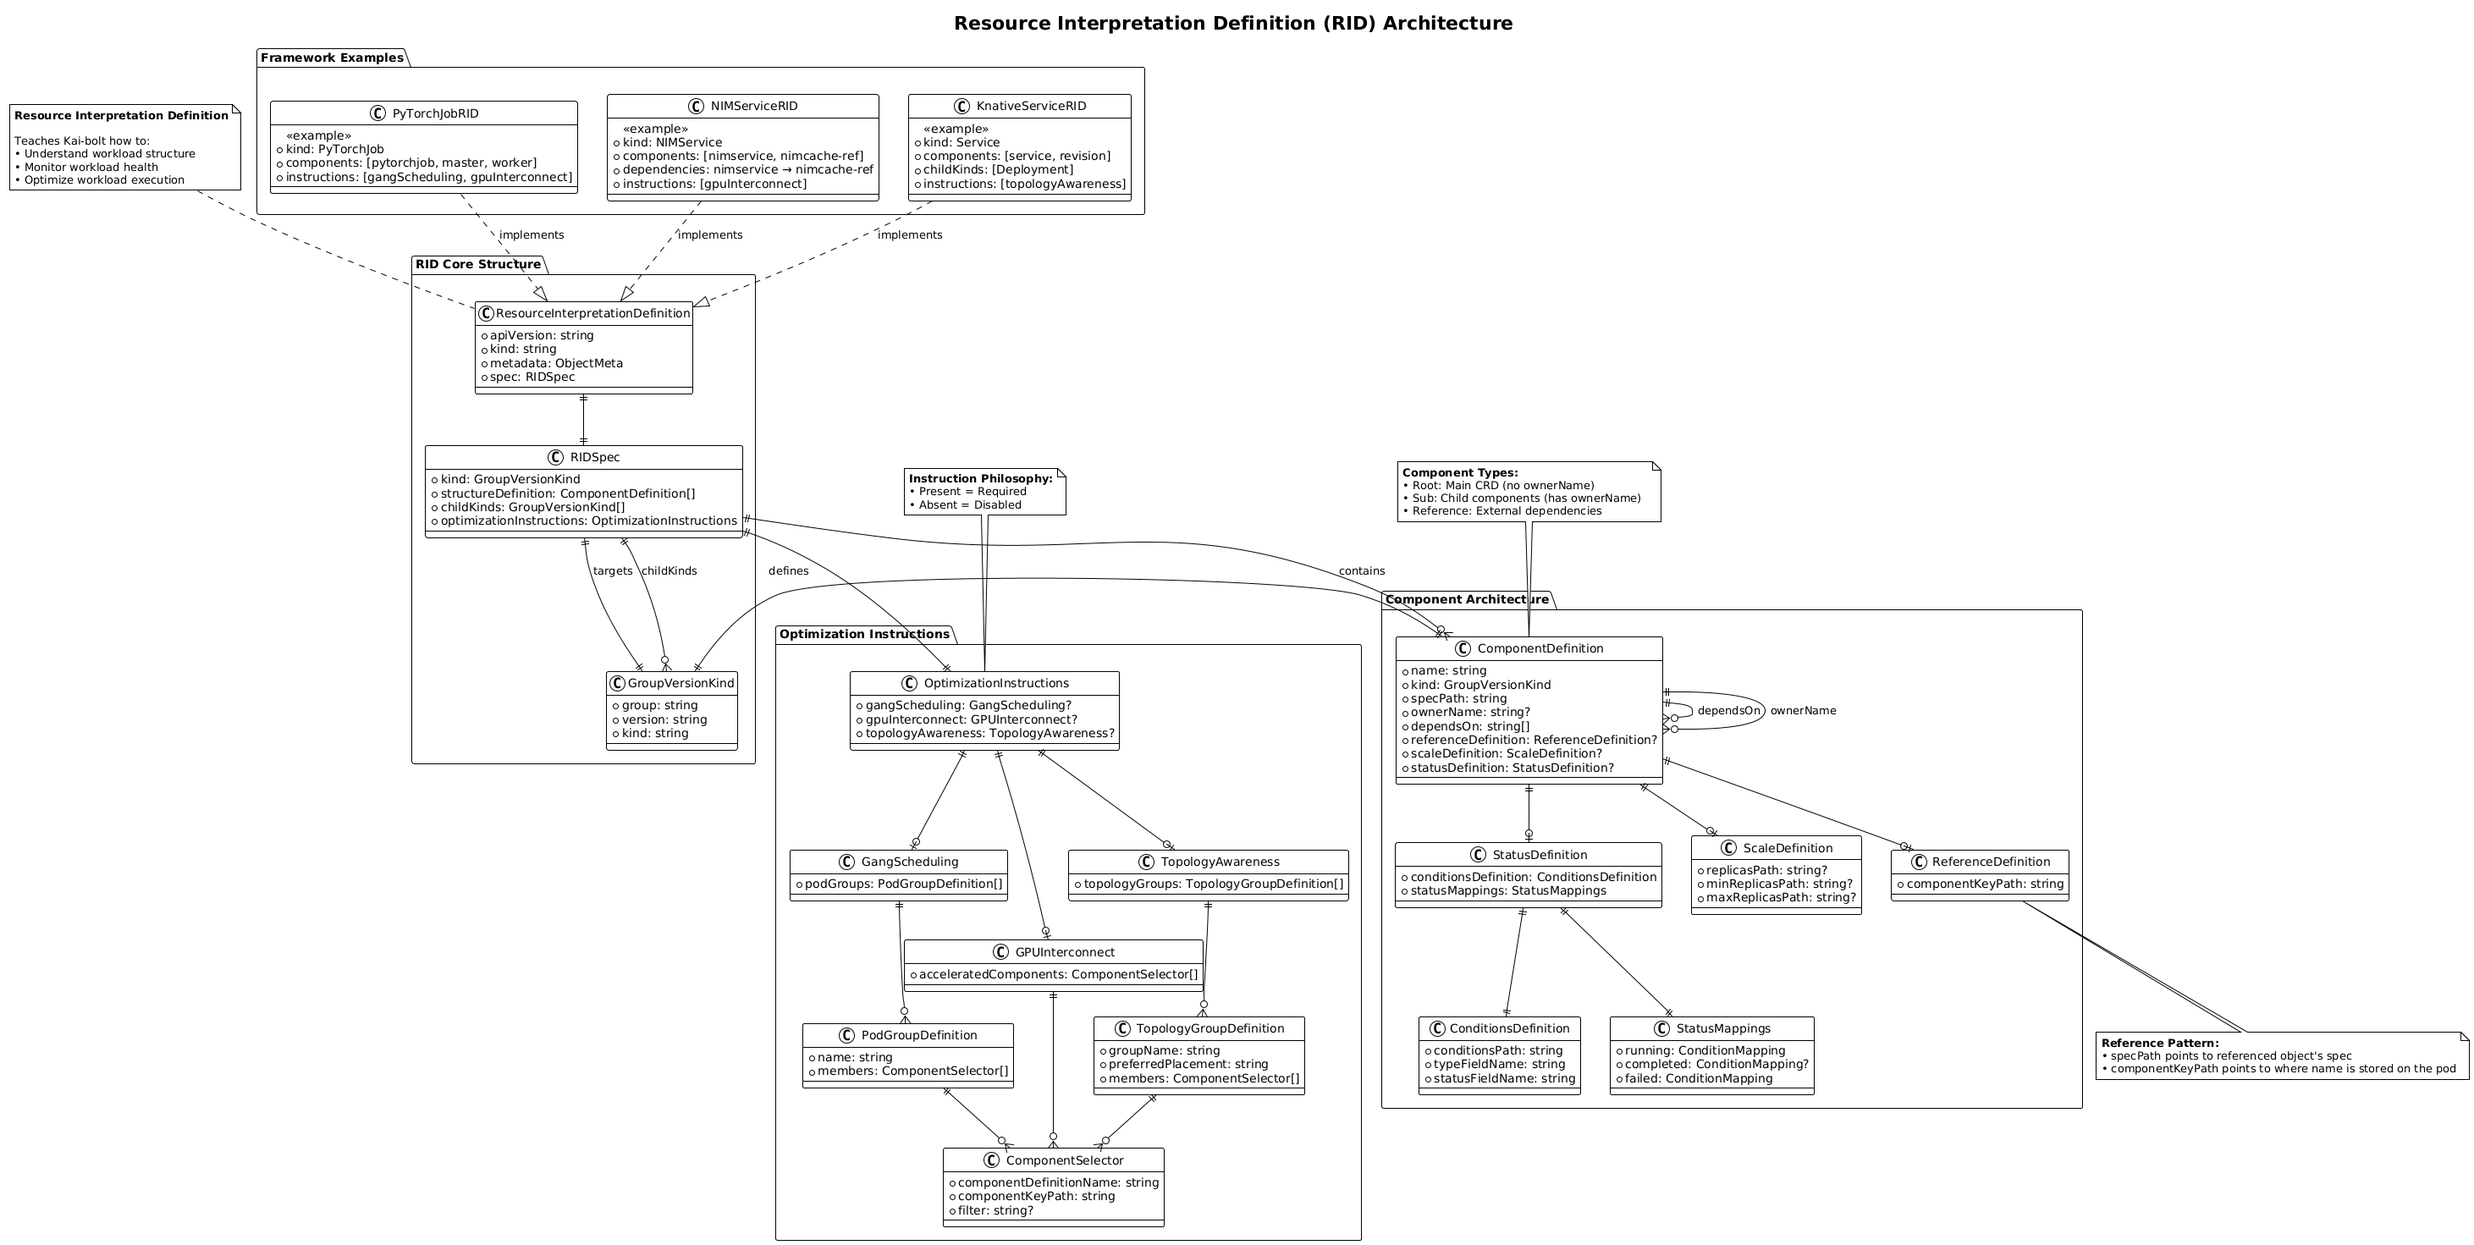
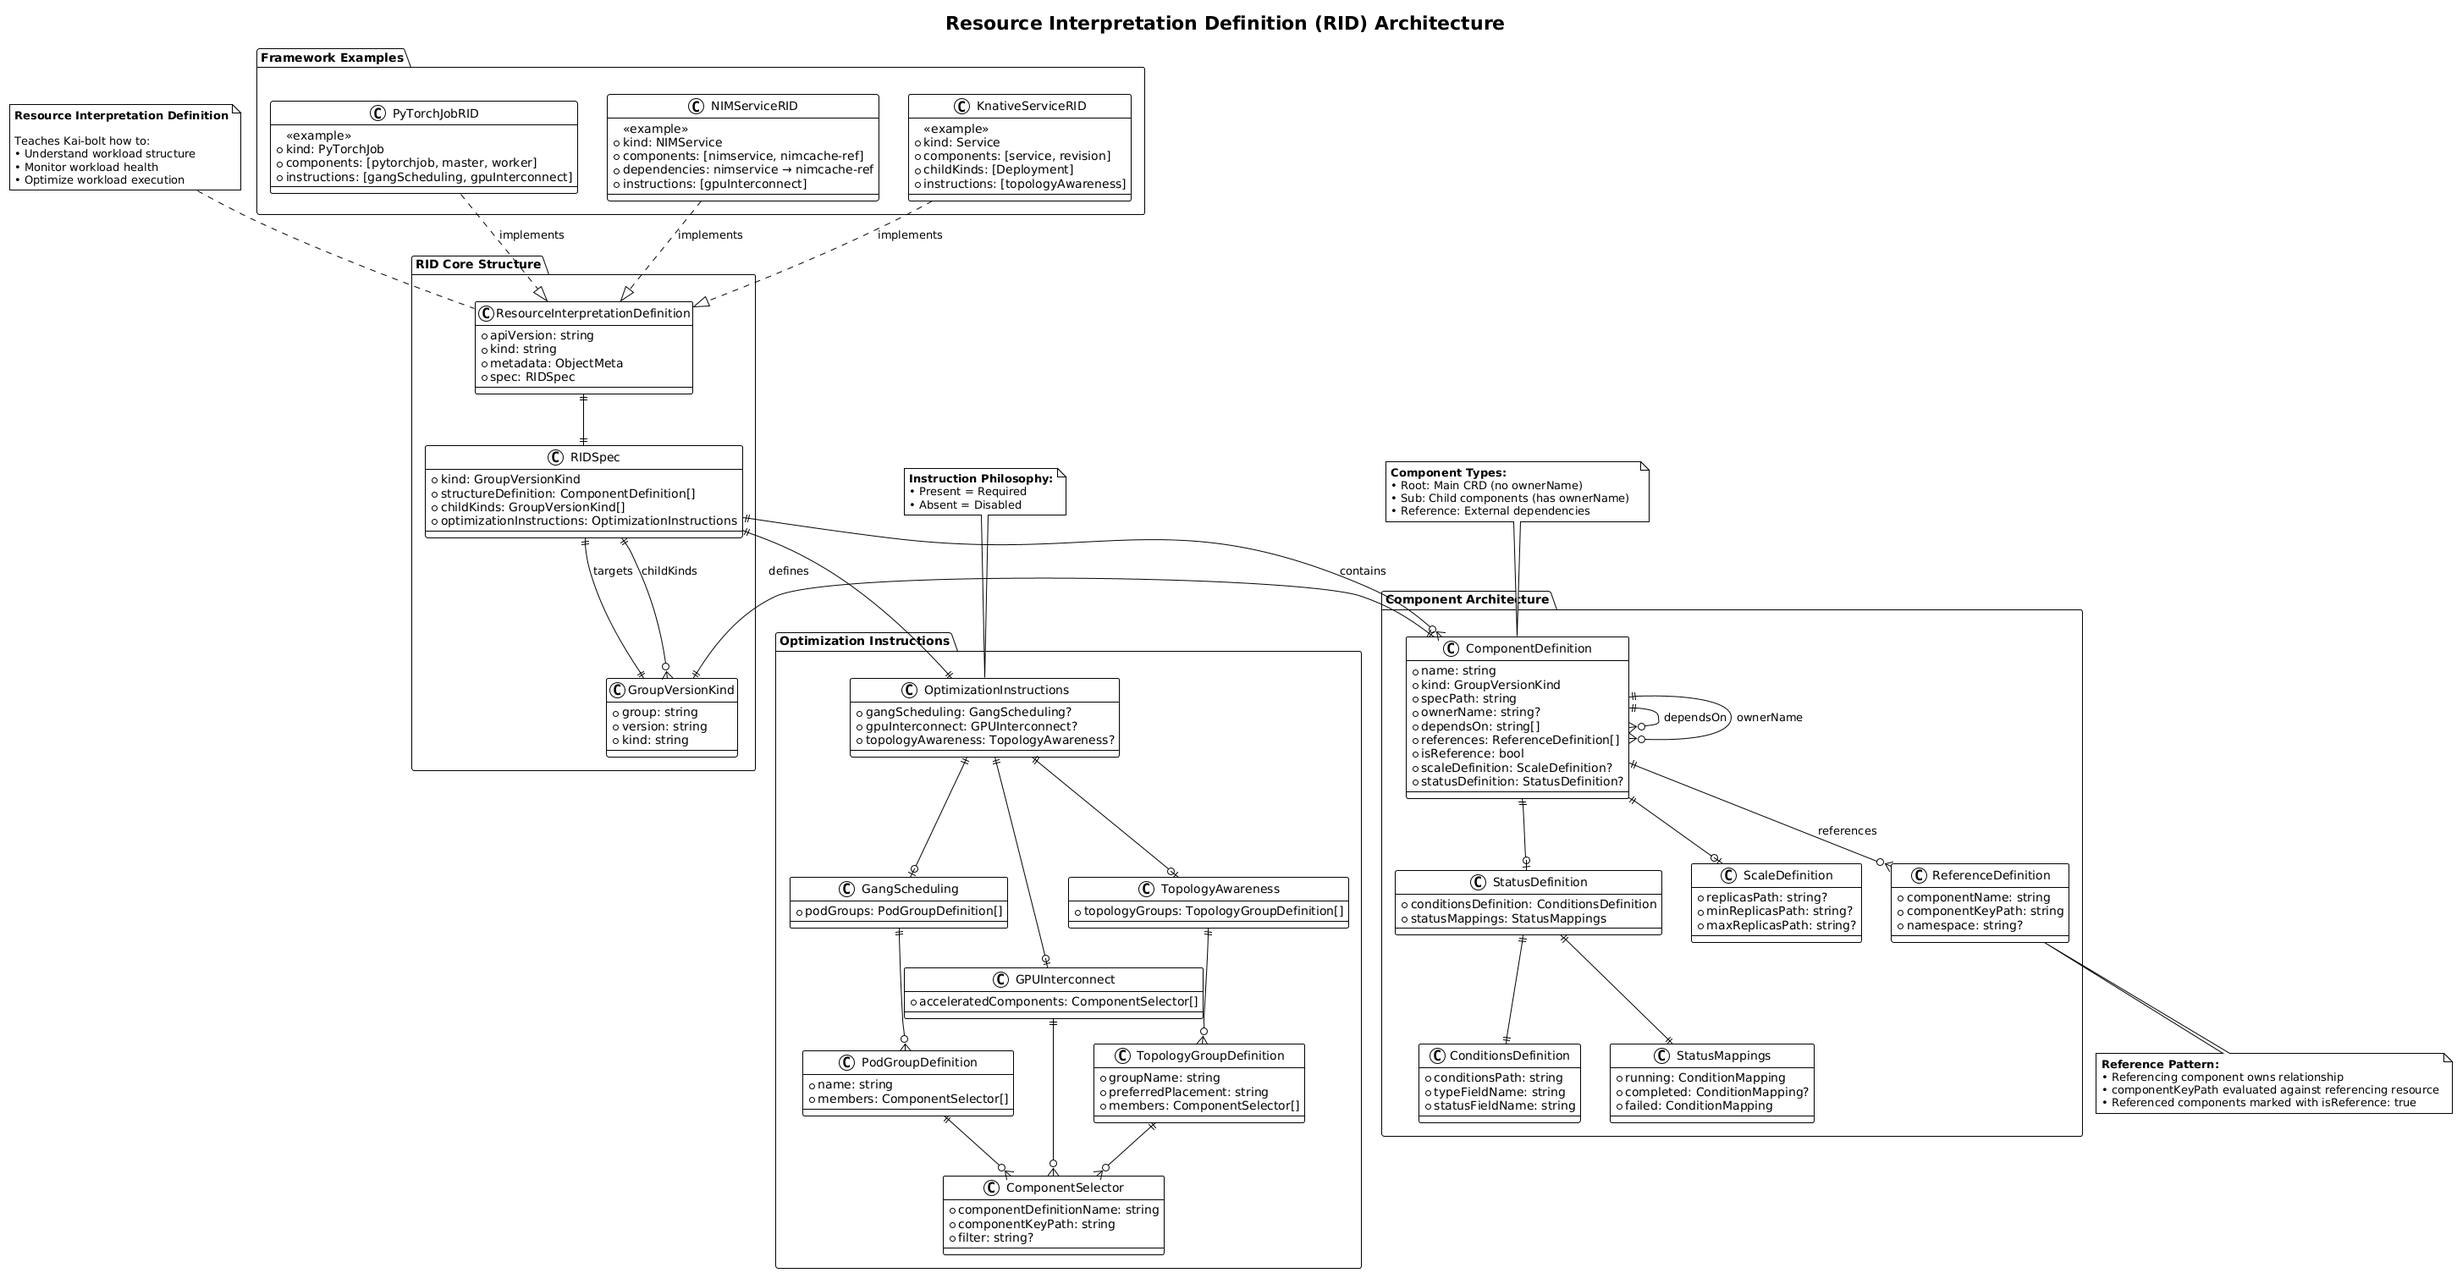
mini design comments

diff --git a/pkg/api/v1alpha1/structure/component.go b/pkg/api/v1alpha1/structure/component.go
@@ -3,17 +3,19 @@ package structure
 import "k8s.io/apimachinery/pkg/runtime/schema"
 
 type ComponentDefinition struct {
-	Name                string                   `json:"name"`
-	Kind                *schema.GroupVersionKind `json:"kind,omitempty"`
-	OwnerName           *string                  `json:"ownerName,omitempty"`           // name of the owning component. nil if root?
-	SpecPath            string                   `json:"specPath"`                      // JQ path to the component spec (e.g., '.spec.services[]' or '.spec.template')
-	ReferenceDefinition *ReferenceDefinition     `json:"referenceDefinition,omitempty"` // nil = inline component, non-nil = referenced component
-	ScaleDefinition     *ScaleDefinition         `json:"scaleDefinition,omitempty"`     // path to the scale/size struct
-	StatusDefinition    *StatusDefinition        `json:"statusDefinition,omitempty"`
-	DependsOn           []string                 `json:"dependsOn,omitempty"` // component names that must be ready before this component starts
+	Name             string                   `json:"name"`
+	Kind             *schema.GroupVersionKind `json:"kind,omitempty"`
+	OwnerName        *string                  `json:"ownerName,omitempty"`       // name of the owning component. nil if root?
+	SpecPath         string                   `json:"specPath"`                  // JQ path to the component spec (e.g., '.spec.services[]' or '.spec.template')
+	References       []ReferenceDefinition    `json:"references,omitempty"`      // list of components this component references
+	IsReference      bool                     `json:"isReference,omitempty"`     // true = this component is an external reference
+	ScaleDefinition  *ScaleDefinition         `json:"scaleDefinition,omitempty"` // path to the scale/size struct
+	StatusDefinition *StatusDefinition        `json:"statusDefinition,omitempty"`
+	DependsOn        []string                 `json:"dependsOn,omitempty"` // component names that must be ready before this component starts
 }
 
 type ReferenceDefinition struct {
+	ComponentName    string  `json:"componentName"`       // Name of the referenced component
 	ComponentKeyPath string  `json:"componentKeyPath"`    // JQ path to where main resource stores this component's identifier
 	Namespace        *string `json:"namespace,omitempty"` // optional - if the referenced component is in another namespace
 }

diff --git a/docs/design/README.md b/docs/design/README.md
@@ -46,38 +46,46 @@ The script will:
 6. **[`common-mistakes.md`](common-mistakes.md)** - Mistakes to avoid based on real experience
 7. **[`iteration-process.md`](iteration-process.md)** - Systematic approach to RID development
 
-## 🎯 Usage Scenarios
+## Usage Scenarios
 
 ### **Starting Fresh on Kai-bolt**
 **Read**: `kai-bolt-overview.md` → `rid-principles.md` → `framework-patterns.md`  
-**Goal**: Understand the system, fundamental rules, and established patterns
+**Purpose**: Understand core concepts and design patterns
 
-### **Creating a New RID**
-**Read**: `iteration-process.md` → `validation-checklist.md` → `common-mistakes.md`  
-**Goal**: Follow systematic development process while avoiding known pitfalls
+### **Adding a New Framework**
+**Read**: `framework-patterns.md` → `validation-checklist.md` → `common-mistakes.md`  
+**Purpose**: Model framework correctly and avoid common issues
 
-### **Reviewing an Existing RID**
-**Use**: `validation-checklist.md` + `rid-principles.md`  
-**Goal**: Ensure quality and architectural compliance
+### **Troubleshooting RID Issues**
+**Read**: `common-mistakes.md` → `architectural-decisions.md` → `validation-checklist.md`  
+**Purpose**: Debug problems and understand architectural constraints
 
-### **Understanding Past Decisions**
-**Read**: `architectural-decisions.md` + `common-mistakes.md`  
-**Goal**: Understand why things are designed the way they are
+### **Understanding Design Decisions**
+**Read**: `architectural-decisions.md` → `rid-principles.md`  
+**Purpose**: Learn why specific patterns were chosen
 
-### **Debugging RID Issues**
-**Use**: `common-mistakes.md` → `validation-checklist.md`  
-**Goal**: Identify and fix typical problems
+### **Framework Research and Analysis**
+**Read**: `framework-patterns.md` → Examples in `docs/examples/`  
+**Purpose**: Understand how different frameworks are modeled
 
-## 🚨 Critical Knowledge ("Pins")
+## Critical Knowledge ("Pins")
 
-These are the most important rules that must never be forgotten:
+These are the **most important rules** that cannot be broken:
 
-1. **RIDs match Kubernetes resource boundaries** - One RID per CRD type
-2. **Dependencies require status definitions** - `dependsOn` needs status monitoring
-3. **Kind fields are full GVK objects** - Never use strings
-4. **componentKeyPath points to instance names** - Not component types
-5. **Status definitions must be research-based** - Never assume condition types
-6. **Instructions target individual components** - Avoid complex parent filters
+### **1. JQ Path Architecture**
+- **Component Definition Paths**: Always absolute from main RID resource root (`.spec.pytorchReplicaSpecs.Worker.replicas`)
+- **Instruction Filter Paths**: Always relative to component's resource type (`.spec.containers[0].resources`)
+
+### **2. Reference Architecture**  
+- **Referencing component**: Owns the relationship via `references` list
+- **Referenced component**: Marked with `isReference: true`
+- **Path evaluation**: All paths within a component evaluate against same resource
+
+### **3. Status Definitions Must Be Research-Based**
+All condition types must match actual framework APIs - never use generic assumptions.
+
+### **4. Component Kinds Must Match Reality**
+Every component `kind` must match the actual Kubernetes resource created by the framework.
 
 ## 📁 Related Directories
 
@@ -106,7 +114,7 @@ common-mistakes.md (prevention)
 architectural-decisions.md (rationale)
 ```
 
-## 📚 Framework Coverage
+## Framework Coverage
 
 The design documents cover patterns for:
 
@@ -130,7 +138,7 @@ The design documents cover patterns for:
 - NVIDIA NIM (NIMCache + NIMService)
 - Separate optimization domains, Explicit dependencies
 
-## 🛠 Quick Reference
+## Quick Reference
 
 ### **Design Validation Commands**
 ```bash
@@ -185,7 +193,7 @@ spec:
 - Contribute to architectural decisions
 - Mentor new contributors
 
-## 🔧 Maintenance
+## Maintenance
 
 ### **Keeping Documents Current**
 - Update when new framework patterns emerge

diff --git a/docs/design/rid-principles.md b/docs/design/rid-principles.md
@@ -1,28 +1,8 @@
 # RID Design Principles
 
-## 🚨 Non-Negotiable Architectural Rules
+## Non-Negotiable Architectural Rules
 
-### 1. **Match Kubernetes Resource Boundaries**
-RIDs must reflect actual Kubernetes CRD structures, not idealized abstractions.
-
-**✅ Correct**: Separate RIDs for separate CRDs
-```yaml
-# nimcache.yaml - for NIMCache CRD
-kind:
-  group: apps.nvidia.com
-  version: v1alpha1  
-  kind: NIMCache
-
-# nimservice.yaml - for NIMService CRD  
-kind:
-  group: apps.nvidia.com
-  version: v1alpha1
-  kind: NIMService
-```
-
-**❌ Wrong**: Single RID trying to model multiple unrelated CRDs
-
-### 2. **Dependencies Require Status Definitions**
+### 1. **Dependencies Require Status Definitions**
 Any component referenced in `dependsOn` MUST have a `statusDefinition`.
 
 **✅ Correct**: 
@@ -42,7 +22,7 @@ Any component referenced in `dependsOn` MUST have a `statusDefinition`.
 
 **❌ Wrong**: `dependsOn` without status monitoring has no way to check readiness
 
-### 3. **kind Fields Must Be Full GVK Objects**
+### 2. **kind Fields Must Be Full GVK Objects**
 Never use strings for `kind` fields - always use complete GroupVersionKind structure.
 
 **✅ Correct**:
@@ -58,7 +38,7 @@ kind:
 kind: "PyTorchJob"  # String - missing group/version
 ```
 
-### 4. **componentKeyPath Points to Owning Resource Names**
+### 3. **componentKeyPath Points to Owning Resource Names**
 Must point to the actual resource instance name, not component types.
 
 **✅ Correct**:
@@ -73,7 +53,7 @@ componentKeyPath: '.metadata.labels["training.kubeflow.org/replica-type"]'
 # Returns: "Master" - this is a type, not an instance identifier
 ```
 
-### 5. **Research-Based Status Definitions**
+### 4. **Research-Based Status Definitions**
 Status conditions must match actual framework APIs, not assumptions.
 
 **✅ Correct**: Based on actual PyTorchJob API
@@ -98,7 +78,7 @@ statusMappings:
       status: "True"
 ```
 
-## 🎯 Component Design Rules
+## Component Design Rules
 
 ### 1. **Owner Hierarchies Are Explicit**
 Use `ownerName` to establish clear parent-child relationships.
@@ -136,7 +116,7 @@ Include components only if they provide additional optimization granularity.
 - ❌ ConfigMaps (configuration, not workload optimization)
 - ❌ 1:1 mappings that don't add optimization value
 
-## 🔧 Instruction Design Rules
+## Instruction Design Rules
 
 ### 1. **Target Individual Components with Simple Filters**
 Avoid complex OR logic on parent components.
@@ -192,7 +172,7 @@ Choose topology levels based on workload characteristics.
 - **Batch Processing**: `zone` (resource efficiency)
 - **Caching/Storage**: `zone` (storage locality)
 
-## 🛡 JQ Expression Safety
+## JQ Expression Safety
 
 ### 1. **Null Safety with Default Values**
 Always provide defaults for optional fields.
@@ -220,7 +200,7 @@ Use `tonumber` when comparing string values.
 filter: '(.spec.limits["nvidia.com/gpu"] // "0" | tonumber) > 1'
 ```
 
-## 📋 Validation Requirements
+## Validation Requirements
 
 Every RID must pass these checks:
 
@@ -231,7 +211,7 @@ Every RID must pass these checks:
 5. **All status conditions match actual framework APIs**
 6. **All JQ expressions are null-safe with proper defaults**
 
-## 🎪 Complex Framework Patterns
+## Complex Framework Patterns
 
 ### Multi-CRD Frameworks (like NIM)
 When frameworks use multiple independent CRDs with different optimization domains:

diff --git a/docs/examples/README.md b/docs/examples/README.md
@@ -142,17 +142,26 @@ optimizationInstructions:
 For workloads that depend on external components (like NIMService → NIMCache):
 
 ```yaml
+# Referencing component owns the relationship
+- name: "nimservice"
+  specPath: ".spec"                                    # NIMService resource context
+  references:
+    - componentName: "nimcache-ref"
+      componentKeyPath: ".spec.storage.nimCache.name"  # Absolute from NIMService (main RID)
+  dependsOn: ["nimcache-ref"]
+
+# Referenced component marked as external  
 - name: "nimcache-ref"
   specPath: ".spec"                                    # NIMCache resource context
-  referenceDefinition:
-    componentKeyPath: ".spec.storage.nimCache.name"   # Absolute from NIMService (main RID)
+  isReference: true
   statusDefinition:
     conditionsPath: ".status.conditions"              # Absolute from NIMCache resource
 ```
 
 **Key Rules:**
-- **`referenceDefinition.componentKeyPath`**: Absolute from **main RID resource**
-- **`specPath`, `statusDefinition` paths**: Absolute from **referenced resource**
+- **Referencing component `references[].componentKeyPath`**: Absolute from **main RID resource**
+- **Referenced component `specPath`, `statusDefinition` paths**: Absolute from **referenced resource**
+- **`isReference: true`**: Marks component as external dependency
 
 ### Why This Architecture?
 
@@ -319,10 +328,10 @@ Guides pod placement based on cluster topology to minimize network latency and o
 
 For workloads that depend on external components (like NIMService → NIMCache):
 
-1. **Main Component**: Defines the primary workload
-2. **Reference Component**: Points to external dependency
+1. **Referencing Component**: Owns the reference relationship via `references` list
+2. **Referenced Component**: Marked as external with `isReference: true`
 3. **Dependency**: Expressed via `dependsOn` field
-4. **Status Integration**: Reference components include status definitions for dependency checking
+4. **Status Integration**: Referenced components include status definitions for dependency checking
 
 Example:
 ```yaml
@@ -330,13 +339,15 @@ structureDefinition:
   components:
   - name: "nimservice"
     specPath: ".spec"
+    references:
+      - componentName: "nimcache-ref"
+        componentKeyPath: ".spec.storage.nimCache.name"
     dependsOn: ["nimcache-ref"]
     # ... status and other definitions
 
   - name: "nimcache-ref"
     specPath: ".spec"
-    referenceDefinition:
-      componentKeyPath: ".spec.storage.nimCache.name"
+    isReference: true
     kind:
       group: "apps.nvidia.com"
       version: "v1alpha1"
@@ -344,6 +355,14 @@ structureDefinition:
     statusDefinition:
       # ... status mappings for dependency validation
 ```
+
+**Critical Rules**:
+- Referencing components use `references` list to specify dependencies  
+- `componentKeyPath` is evaluated against the referencing component's resource
+- Referenced components are marked with `isReference: true`
+- Referenced components must have `statusDefinition` for monitoring
+- Creates orchestration order: cache → service
+- Prevents invalid startup sequences
 
 ## Validation Notes
 

diff --git a/docs/design/kai-bolt-overview.md b/docs/design/kai-bolt-overview.md
@@ -76,17 +76,28 @@ spec:
     version: "v1"
     kind: "Pod"
 
+# Referencing Component (Has Dependencies)
+- name: "nimservice"
+  specPath: ".spec"
+  references:
+    - componentName: "nimcache-ref"
+      componentKeyPath: ".spec.storage.nimCache.name"
+  dependsOn: ["nimcache-ref"]
+  kind:
+    group: "apps.nvidia.com"
+    version: "v1alpha1"
+    kind: "NIMService"
+
 # Reference Component (External Dependency)
 - name: "nimcache-ref"
   specPath: ".spec"
-  referenceDefinition:                 # Indicates separate K8s object
-    componentKeyPath: ".spec.storage.nimCache.name"
+  isReference: true                      # Indicates separate K8s object
   ownerName: "nimservice"
   kind:
     group: "apps.nvidia.com"
     version: "v1alpha1"
     kind: "NIMCache"
-  statusDefinition: { ... }           # Required for monitoring
+  statusDefinition: { ... }              # Required for monitoring
 ```
 
 ### 2. Scale Definition
@@ -400,3 +411,43 @@ This component structure enables Kai-bolt to understand complex AI/ML workloads,
 3. Use `validation-checklist.md` for RID quality assurance
 4. Reference existing RIDs in `docs/examples/` (current implementations)
 5. Follow `iteration-process.md` for development methodology
+
+## Component Referencing Pattern
+
+For workloads that depend on external components (like NIMService → NIMCache):
+
+1. **Referencing Component**: Owns the reference relationship
+2. **Referenced Component**: Marked as external with `isReference: true`
+3. **Dependency**: Expressed via `dependsOn` field
+4. **Status Integration**: Referenced components include status definitions for dependency checking
+
+Example:
+```yaml
+structureDefinition:
+  components:
+  - name: "nimservice"
+    specPath: ".spec"
+    references:
+      - componentName: "nimcache-ref"
+        componentKeyPath: ".spec.storage.nimCache.name"
+    dependsOn: ["nimcache-ref"]
+    # ... status and other definitions
+
+  - name: "nimcache-ref"
+    specPath: ".spec"
+    isReference: true
+    kind:
+      group: "apps.nvidia.com"
+      version: "v1alpha1"
+      kind: "NIMCache"
+    statusDefinition:
+      # ... status mappings for dependency validation
+```
+
+**Critical Rules**:
+- Referencing components use `references` list to specify dependencies
+- `componentKeyPath` is evaluated against the referencing component's resource
+- Referenced components are marked with `isReference: true`
+- Referenced components must have `statusDefinition` for monitoring
+- Creates orchestration order: cache → service
+- Prevents invalid startup sequences
